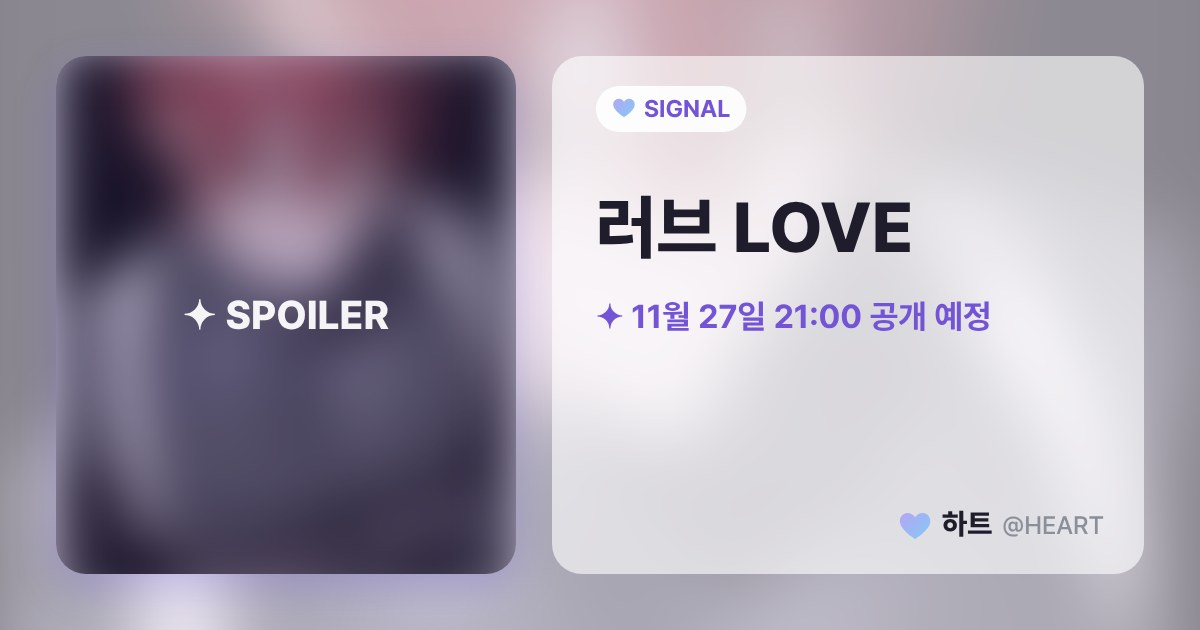
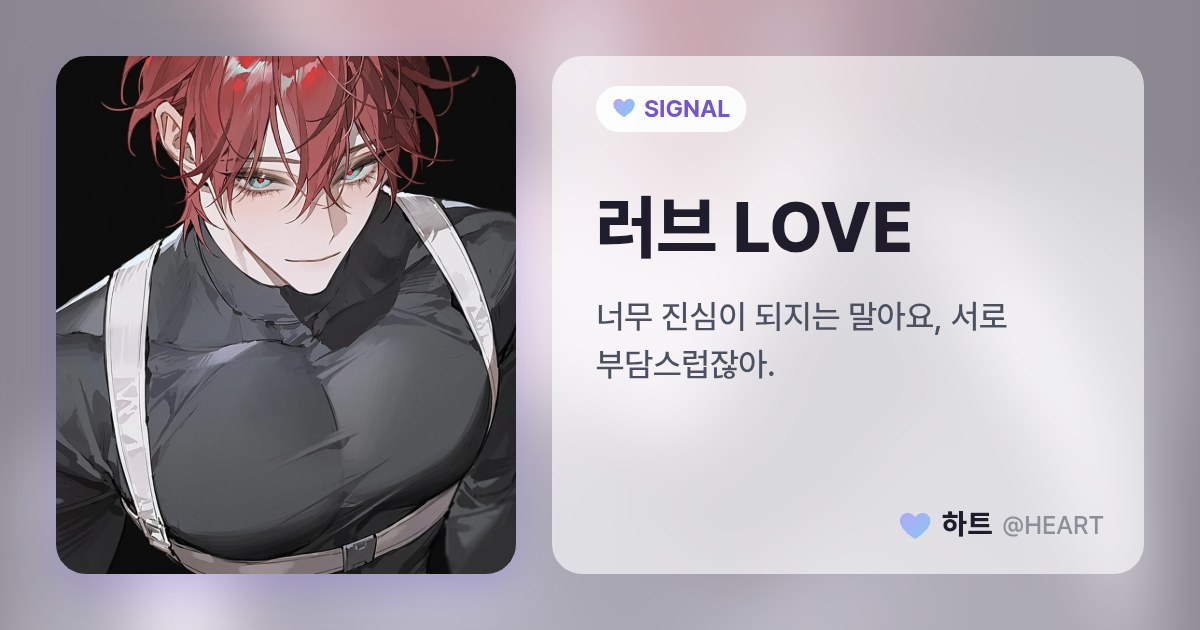
📌 공지 1개 추가 · 📌 공지 1개 지움

diff --git a/c/23b/index.html b/c/23b/index.html
@@ -3,9 +3,9 @@
 <title>러브 LOVE · 하트 (@HEART)</title>
 <meta property="og:type" content="website" /><meta property="og:site_name" content="하트 (@HEART)" />
 <meta property="og:title" content="러브 LOVE · 하트 (@HEART)" /><meta property="og:description" content="너무 진심이 되지는 말아요, 서로 부담스럽잖아." />
-<meta property="og:url" content="https://heart-notis.github.io/c/23b/" /><meta property="og:image" content="https://heart-notis.github.io/c/23b/card-open.jpg?v=k6upz0o" />
+<meta property="og:url" content="https://heart-notis.github.io/c/23b/" /><meta property="og:image" content="https://heart-notis.github.io/c/23b/card.jpg?v=1d2q347" />
 <meta property="og:image:width" content="1200" /><meta property="og:image:height" content="630" />
-<meta name="twitter:card" content="summary_large_image" /><meta name="twitter:title" content="러브 LOVE · 하트 (@HEART)" /><meta name="twitter:description" content="너무 진심이 되지는 말아요, 서로 부담스럽잖아." /><meta name="twitter:image" content="https://heart-notis.github.io/c/23b/card-open.jpg?v=k6upz0o" />
+<meta name="twitter:card" content="summary_large_image" /><meta name="twitter:title" content="러브 LOVE · 하트 (@HEART)" /><meta name="twitter:description" content="너무 진심이 되지는 말아요, 서로 부담스럽잖아." /><meta name="twitter:image" content="https://heart-notis.github.io/c/23b/card.jpg?v=1d2q347" />
 <script>location.replace("/?from=share#post-mwspzf0v78ao");</script>
 <meta http-equiv="refresh" content="0; url=/?from=share#post-mwspzf0v78ao" />
 </head><body></body></html>

diff --git a/c/23c/index.html b/c/23c/index.html
@@ -3,9 +3,9 @@
 <title>러브 LOVE · 하트 (@HEART)</title>
 <meta property="og:type" content="website" /><meta property="og:site_name" content="하트 (@HEART)" />
 <meta property="og:title" content="러브 LOVE · 하트 (@HEART)" /><meta property="og:description" content="너무 진심이 되지는 말아요, 서로 부담스럽잖아." />
-<meta property="og:url" content="https://heart-notis.github.io/c/23c/" /><meta property="og:image" content="https://heart-notis.github.io/c/23c/card-open.jpg?v=k6upz0o" />
+<meta property="og:url" content="https://heart-notis.github.io/c/23c/" /><meta property="og:image" content="https://heart-notis.github.io/c/23c/card.jpg?v=1d2q347" />
 <meta property="og:image:width" content="1200" /><meta property="og:image:height" content="630" />
-<meta name="twitter:card" content="summary_large_image" /><meta name="twitter:title" content="러브 LOVE · 하트 (@HEART)" /><meta name="twitter:description" content="너무 진심이 되지는 말아요, 서로 부담스럽잖아." /><meta name="twitter:image" content="https://heart-notis.github.io/c/23c/card-open.jpg?v=k6upz0o" />
+<meta name="twitter:card" content="summary_large_image" /><meta name="twitter:title" content="러브 LOVE · 하트 (@HEART)" /><meta name="twitter:description" content="너무 진심이 되지는 말아요, 서로 부담스럽잖아." /><meta name="twitter:image" content="https://heart-notis.github.io/c/23c/card.jpg?v=1d2q347" />
 <script>location.replace("/?from=share#post-mwspzf0v78ao");</script>
 <meta http-equiv="refresh" content="0; url=/?from=share#post-mwspzf0v78ao" />
 </head><body></body></html>

diff --git a/c/23l/index.html b/c/23l/index.html
@@ -3,9 +3,9 @@
 <title>러브 LOVE · 하트 (@HEART)</title>
 <meta property="og:type" content="website" /><meta property="og:site_name" content="하트 (@HEART)" />
 <meta property="og:title" content="러브 LOVE · 하트 (@HEART)" /><meta property="og:description" content="너무 진심이 되지는 말아요, 서로 부담스럽잖아." />
-<meta property="og:url" content="https://heart-notis.github.io/c/23l/" /><meta property="og:image" content="https://heart-notis.github.io/c/23l/card-open.jpg?v=k6upz0o" />
+<meta property="og:url" content="https://heart-notis.github.io/c/23l/" /><meta property="og:image" content="https://heart-notis.github.io/c/23l/card.jpg?v=1d2q347" />
 <meta property="og:image:width" content="1200" /><meta property="og:image:height" content="630" />
-<meta name="twitter:card" content="summary_large_image" /><meta name="twitter:title" content="러브 LOVE · 하트 (@HEART)" /><meta name="twitter:description" content="너무 진심이 되지는 말아요, 서로 부담스럽잖아." /><meta name="twitter:image" content="https://heart-notis.github.io/c/23l/card-open.jpg?v=k6upz0o" />
+<meta name="twitter:card" content="summary_large_image" /><meta name="twitter:title" content="러브 LOVE · 하트 (@HEART)" /><meta name="twitter:description" content="너무 진심이 되지는 말아요, 서로 부담스럽잖아." /><meta name="twitter:image" content="https://heart-notis.github.io/c/23l/card.jpg?v=1d2q347" />
 <script>location.replace("/?from=share#post-mwspzf0v78ao");</script>
 <meta http-equiv="refresh" content="0; url=/?from=share#post-mwspzf0v78ao" />
 </head><body></body></html>

diff --git a/c/23/index.html b/c/23/index.html
@@ -3,9 +3,9 @@
 <title>러브 LOVE · 하트 (@HEART)</title>
 <meta property="og:type" content="website" /><meta property="og:site_name" content="하트 (@HEART)" />
 <meta property="og:title" content="러브 LOVE · 하트 (@HEART)" /><meta property="og:description" content="너무 진심이 되지는 말아요, 서로 부담스럽잖아." />
-<meta property="og:url" content="https://heart-notis.github.io/c/23/" /><meta property="og:image" content="https://heart-notis.github.io/c/23/card-open.jpg?v=k6upz0o" />
+<meta property="og:url" content="https://heart-notis.github.io/c/23/" /><meta property="og:image" content="https://heart-notis.github.io/c/23/card.jpg?v=1d2q347" />
 <meta property="og:image:width" content="1200" /><meta property="og:image:height" content="630" />
-<meta name="twitter:card" content="summary_large_image" /><meta name="twitter:title" content="러브 LOVE · 하트 (@HEART)" /><meta name="twitter:description" content="너무 진심이 되지는 말아요, 서로 부담스럽잖아." /><meta name="twitter:image" content="https://heart-notis.github.io/c/23/card-open.jpg?v=k6upz0o" />
+<meta name="twitter:card" content="summary_large_image" /><meta name="twitter:title" content="러브 LOVE · 하트 (@HEART)" /><meta name="twitter:description" content="너무 진심이 되지는 말아요, 서로 부담스럽잖아." /><meta name="twitter:image" content="https://heart-notis.github.io/c/23/card.jpg?v=1d2q347" />
 <script>location.replace("/?from=share#post-mwspzf0v78ao");</script>
 <meta http-equiv="refresh" content="0; url=/?from=share#post-mwspzf0v78ao" />
 </head><body></body></html>

diff --git a/data.js b/data.js
@@ -28,12 +28,12 @@ window.SITE_DATA = {
   },
   "notices": [
     {
-      "id": "mwrzipxtojfo",
+      "id": "mwzpj2id7cn8",
       "title": "♥ 작품 업로드 일정",
-      "date": "2026-11-23",
+      "date": "2026-11-28",
       "pinned": false,
-      "body": "♥ **WHIF** - 가이드버스 합작 **11월 27일 금요일 21시**\n♥ **BLOOM** - 가이드버스 합작 이식 **12월 03일 목요일**\n♥ **TEAPOT** - 이그노어 합작 이식\n\n이후 **포스타입** 늘봄 셰어하우스 정우진 > 윤도하 순으로 개인 캐릭터톡 제작 예정입니다 ♥",
-      "createdAt": "2026-11-22T15:21:31.601Z",
+      "body": "♥ **BLOOM** - 가이드버스 합작 이식 **12월 03일 목요일**\n♥ **TEAPOT** - 이그노어 합작 이식 **12월 04일 금요일**\n\n이후 **포스타입** 늘봄 셰어하우스 정우진 > 윤도하 순으로 개인 캐릭터톡 제작 예정입니다 ♥",
+      "createdAt": "2026-11-28T01:04:01.141Z",
       "onPosts": true
     },
     {
@@ -136,7 +136,7 @@ window.SITE_DATA = {
         "자유 시간을 저한테서 통째로 사시려면, 방금 치르신 가이딩 비용에 최소한 외출 할증에 위험 수당까지 얹어주셔야 할 텐데."
       ],
       "slug": "23",
-      "cardKey": "k6upz0",
+      "cardKey": "1d2q347",
       "songUrl": "https://youtu.be/lGvJ0PIobrw?si=94IliHW8cGkN1sfk",
       "songTitle": "No Strings Attached",
       "updatedAt": "2026-11-27T02:24:24.464Z"
